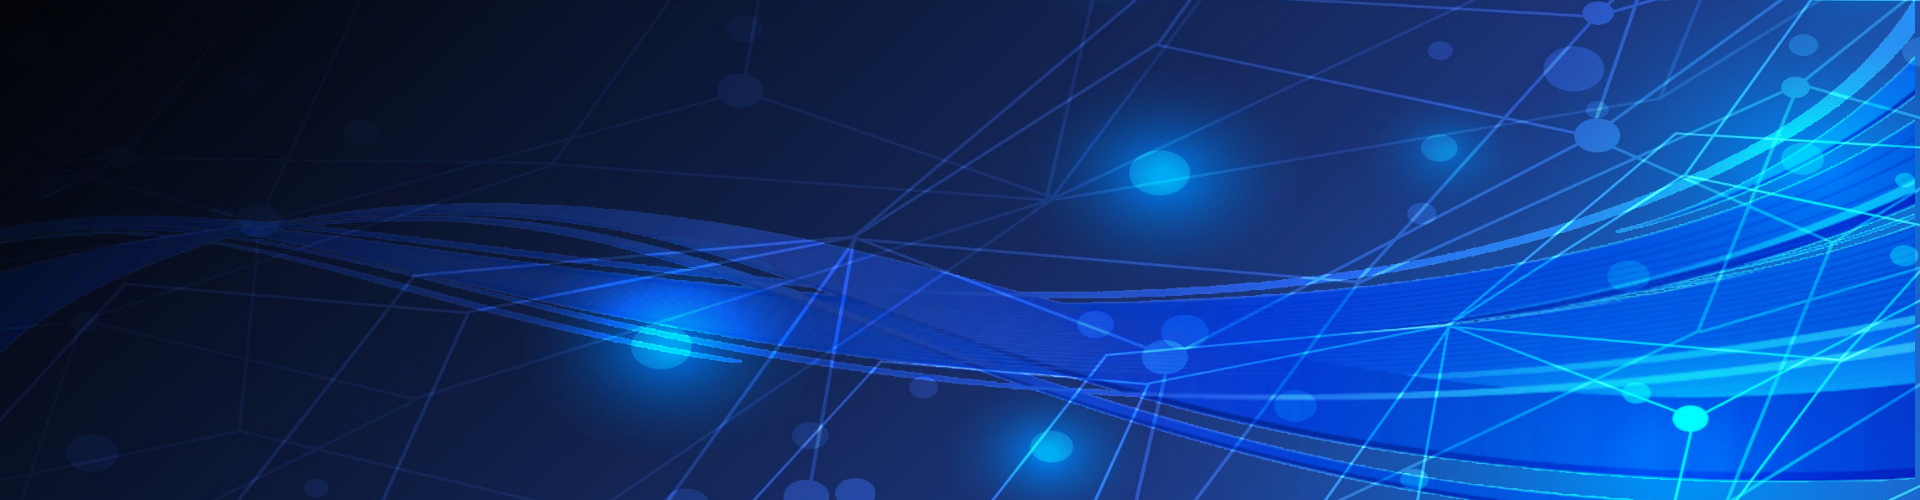
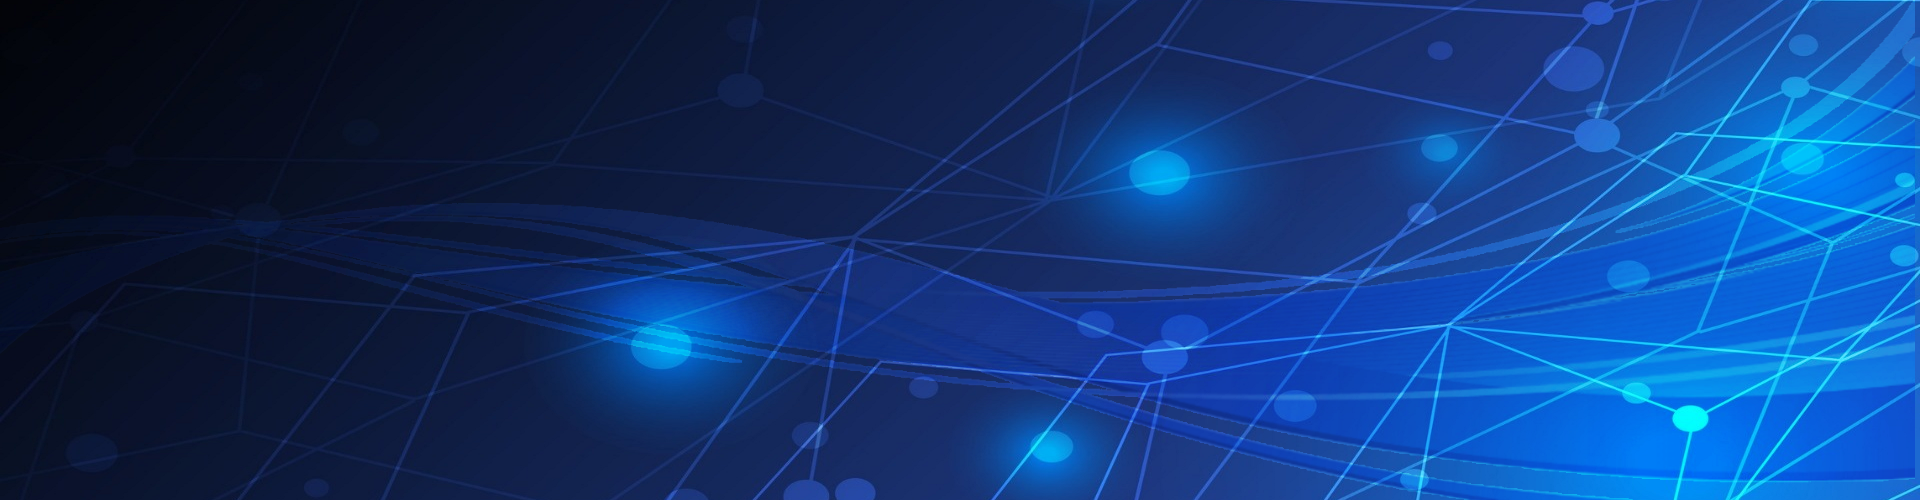
Change jumbotron background

diff --git a/css/main.css b/css/main.css
@@ -91,12 +91,12 @@ visited {
 /* Boostrap4 Component Jumbotron */
 
 .jumbotron {
-    background-image: url("../images/heroimagecombi1920x500.png");
-    background-attachment: fixed;
+    background-image: url("../images/heroimagecombi1920x600.png");
     background-position: center;
-     background-color: #2948ff;
-	background-size: cover;
-	max-height: 500px;
+    background-color: #2948ff;
+    background-repeat: no-repeat;
+
+
 	margin: 0;
 	padding: 0;
 	border-radius: 0;
